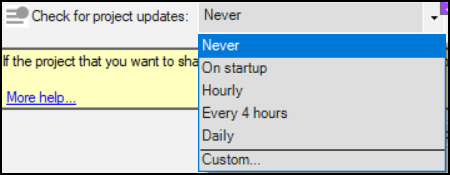
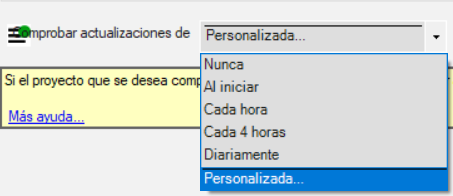
GHAction - Commit incoming translations from Crowdin

diff --git a/i18n/es/docusaurus-plugin-content-docs/current/Training-manual/Overview.md b/i18n/es/docusaurus-plugin-content-docs/current/Training-manual/Overview.md
@@ -1,5 +1,5 @@
 ---
-title: Overview of Training Manual - PDF
+title: Resumen del manual de formación - PDF
 sidebar_position: 1
 slug: /Overview
 ---
@@ -24,55 +24,55 @@ El manual de formación sigue las tareas del plan llamado "SIL Compact Plan". Lo
 3. Asignaciones y progreso ... _p.23_
 4. Teclear el borrador ... _p.28_
 5. Verificaciones básicas ... _p.37_
-6. Project progress ... _p.41_
+6. Progreso del proyecto ... _p.41_
 
 
 ### Etapa 2 Comprobación por parte del equipo y comprobación de la comprensión {#196f054cc44d4c70a92a443e7bb68561}
 
 
-7. Proper Names ... _p.45_
-8. Spell Checking ... _p.46_
-9. Glossary ... _p.57_
-10. A 4-Step process for ... Biblical Terms ... _p.62_
-11. Compare a word or phrase ... _p.72_
-12. Basic Checks 2 ... _p.76_
-13. Formatting checks ... _p.85_
-14. Printing Drafts ... _p.89_
-15. Using Notes ... _p.94_
+7. Nombres propios ... _p.45_
+8. Corrección ortográfica ... _p.46_
+9. Glosario ... _p.57_
+10. Un proceso de 4 pasos para ... Vocablos bíblicos ... _p.62_
+11. Compara una palabra o frase ... _p.72_
+12. Verificaciones básicas 2 ... _p.76_
+13. Comprobaciones de formato ... _p.85_
+14. Impresión de borradores ... _p.89_
+15. Uso de notas ... _p.94_
 
 
 ### Etapa 3 Prepárese para el Consultor {#e80a5fd98e494504b47f260555d1a453}
 
 
-16. Draft a Back Translation ... _p.105_
-17. Interlinearize a project ... _p.112_
-18. Compare Text ... _p.117_
-19. Basic checks 3 ... _p.119_
+16. Redactar una retrotraducción ... _p.105_
+17. Crear un interlineal de un proyecto ... _p.112_
+18. Comparar texto ... _p.117_
+19. Verificaciones básicas 3 ... _p.119_
 
 
 ### Etapa 4 Comprobación del consultor {#b9cfad05576f45628a0182bbda14ae90}
 
 
-20. Collaboration Tools ... _p.126_
+20. Herramientas de colaboración ... _p.126_
 
 
 ### Etapa 5 (Etapa 3 UBS) Revisión por parte de la Comunidad {#37d7ee955e9e4169a751872d50f04eb1}
 
 
-21. Progress report ... _p.133_
-22. Biblical key terms report ... _p.135_
+21. Informe de progreso ... _p.133_
+22. Informe sobre vocablos bíblicos ... _p.135_
 
 
 ### Etapa 6 (Etapa 4 UBS) Finalización para la publicación {#85c6be7707ee40869b049b52bf3c6d1d}
 
 
-23. Compare Parallel Passages ... _p.138_
-24. Finalising for Publication ... _p.145_
-25. Create a study Bible ... _p.152_
+23. Comparar pasajes paralelos ... _p.138_
+24. Finalización para la publicación ... _p.145_
+25. Crear una Biblia de estudio ... _p.152_
 
 
 ### Apéndice {#793aa14dd606462cb02b5bb66acd3057}
 
 
-A. Special texts ... _p.158_ B. Three letter abbreviations ... _p.161_ C. Common USFM markers ... _p.164_
+A. Textos especiales ... _p.158_ B. Abreviaturas de tres letras ... _p.161_ C. Marcadores comunes de USFM ... _p.164_
 

diff --git a/i18n/es/docusaurus-plugin-content-docs/current/Training-manual/Stage-2---Team-Checking/12.BC2.md b/i18n/es/docusaurus-plugin-content-docs/current/Training-manual/Stage-2---Team-Checking/12.BC2.md
@@ -15,7 +15,7 @@ slug: /12.BC2
 **¿Por qué es importante?** Paratext 9 tiene once **Verificaciones básicas**. Ya ha visto los dos primeros, los números de capítulo/versículo y los marcadores. Este módulo le ayudará a encontrar errores relacionados con los caracteres, la puntuación, las mayúsculas y las palabras repetidas. Aunque estos errores no influyan en el contenido del texto, corregirlos facilita su lectura.
 
 
-**What we are going to do:**  Most of the checks require that your administrator has completed an inventory. En este módulo
+**Lo que vamos a hacer:** La mayoría de las verificaciones requieren que su administrador haya realizado un inventario. En este módulo
 
 - Confirme que se ha realizado la configuración (o pida al administrador que la realice)
 - realice las verificaciones básicas
